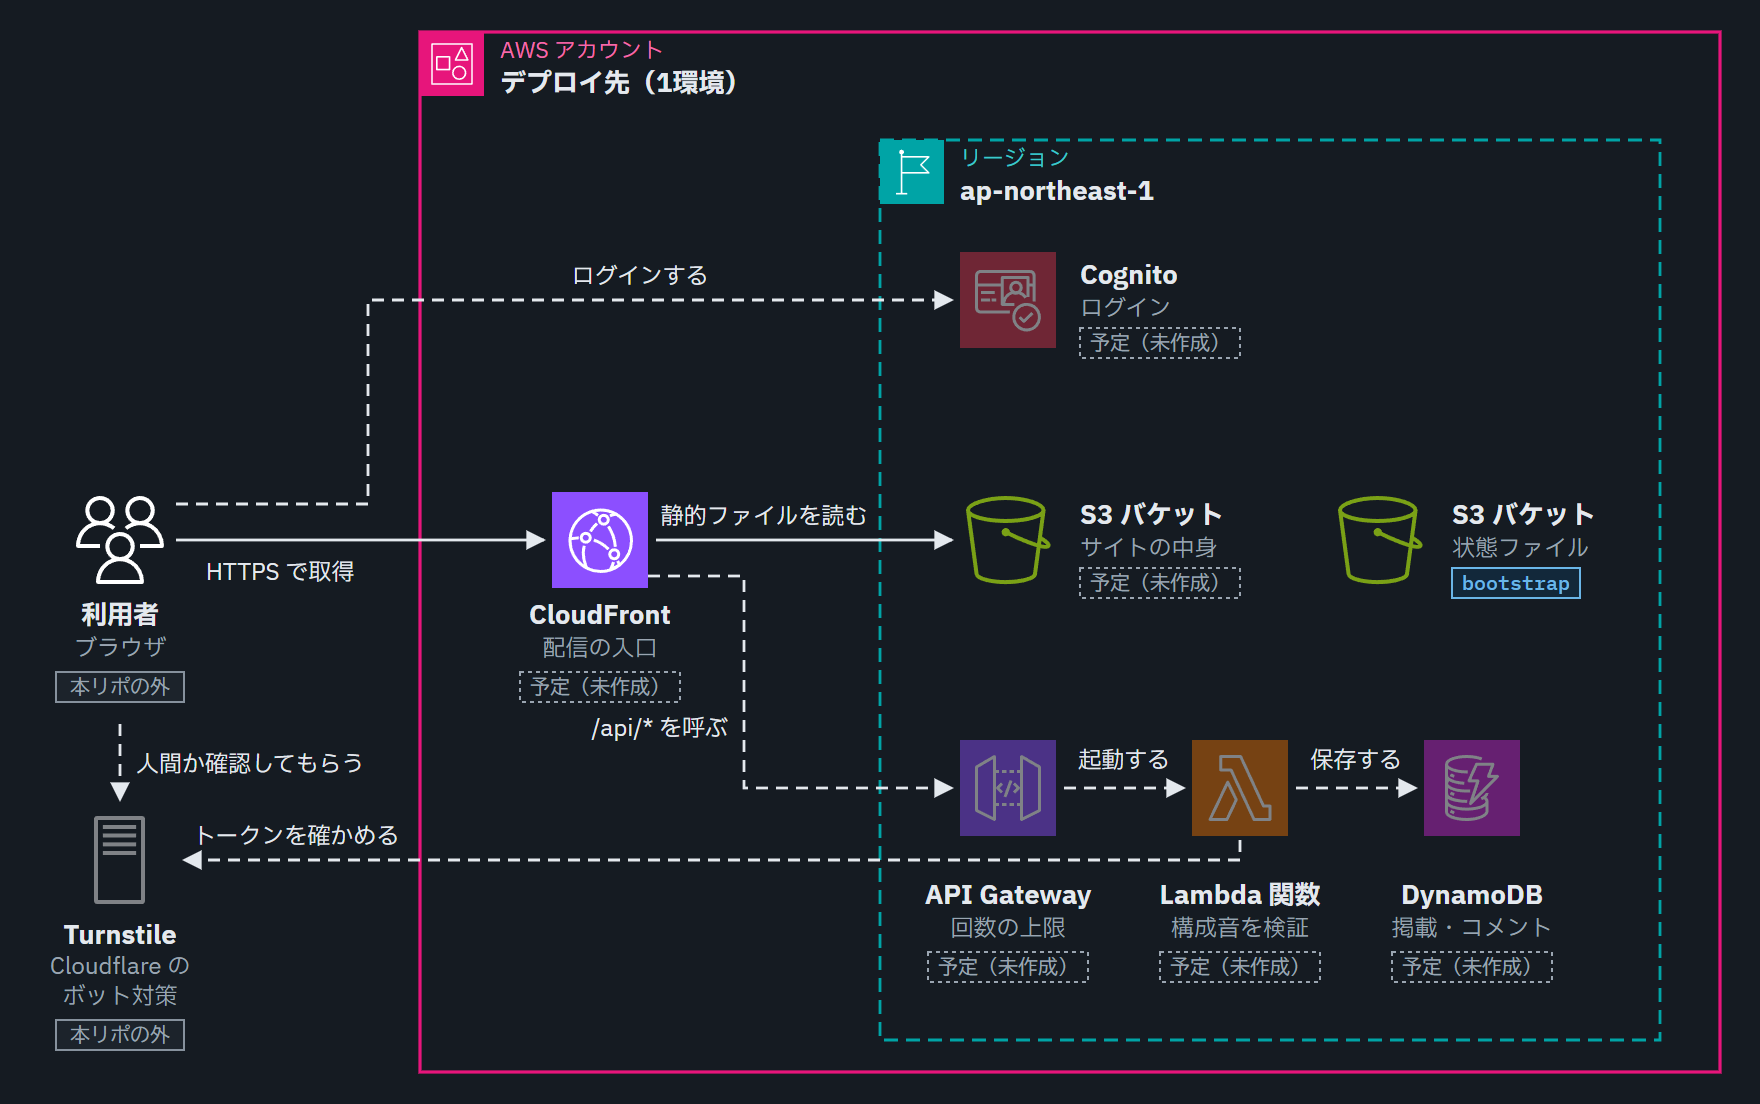
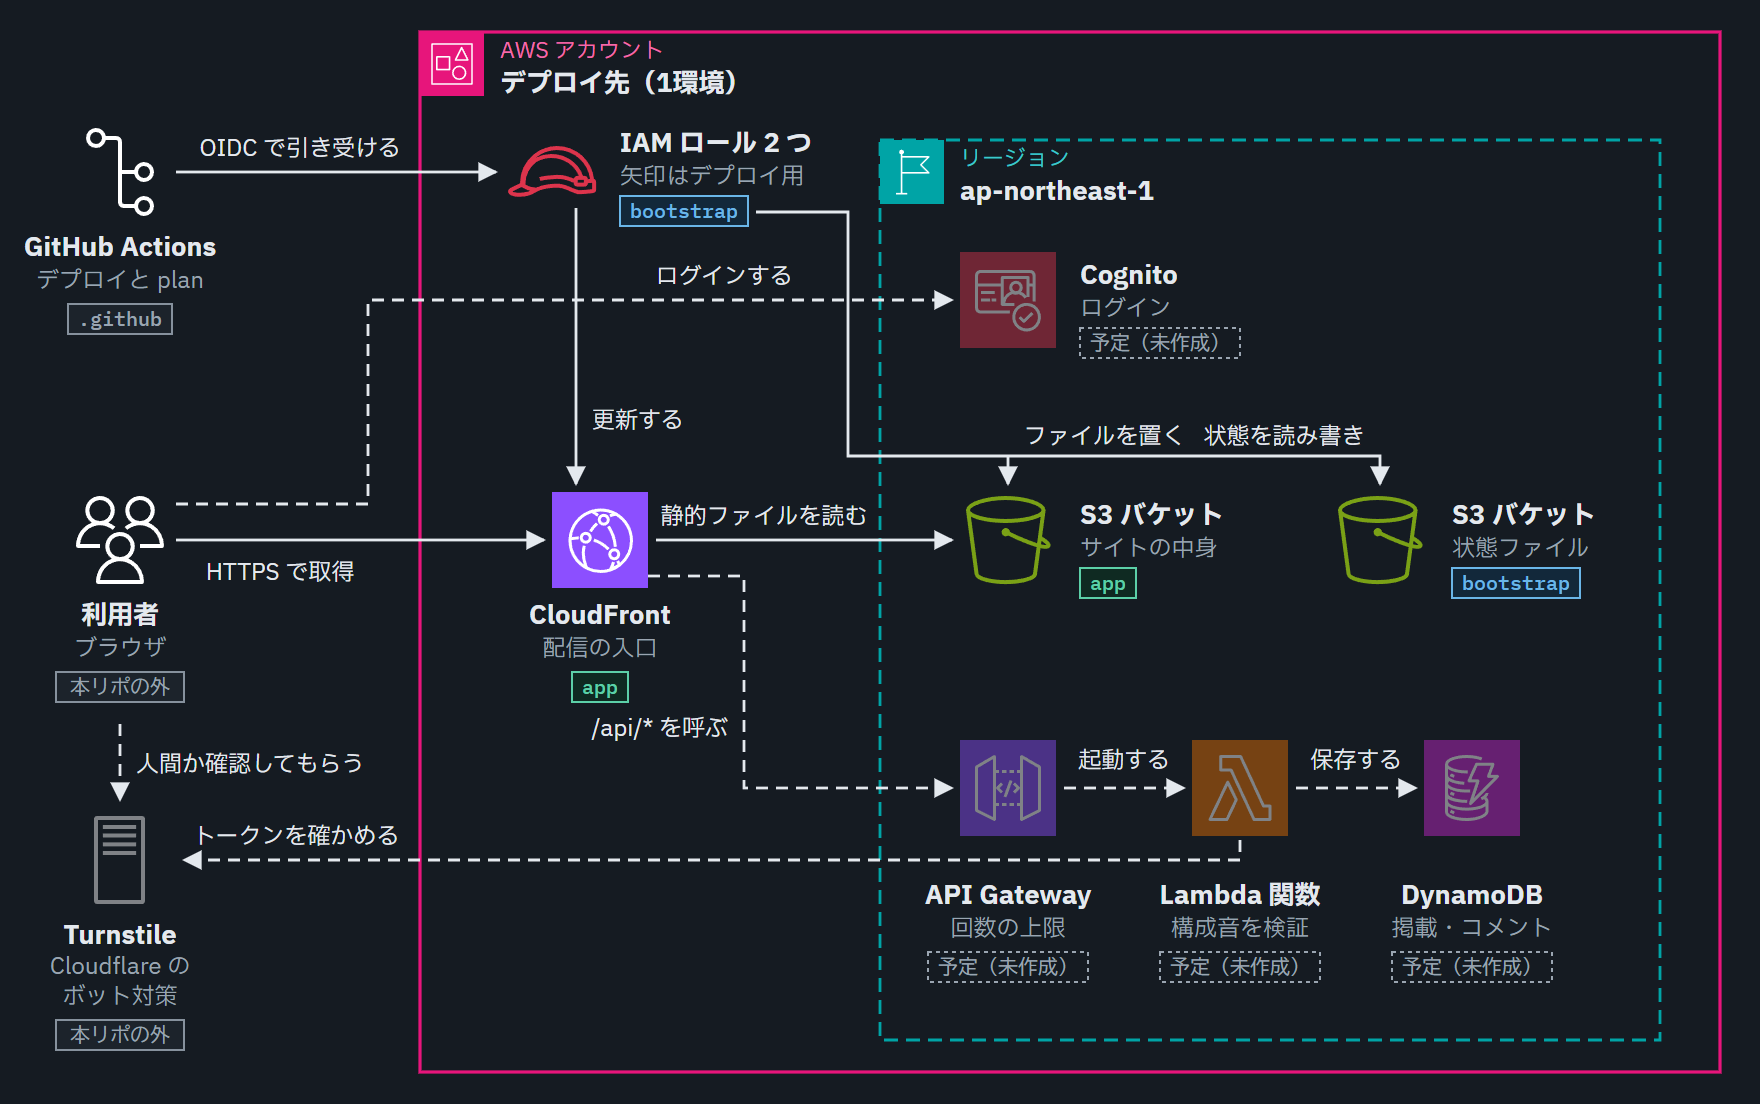
fix: OIDC の信頼条件を GitHub の実際の sub に合わせ、AWS への置き方を README に足す
Issue #42（M2 の最後）で #39〜#41 の部品を初めて実環境につないだ。main への push で deploy.yml が動き、CloudFront の公開 URL でサイトが使えること、PR からデプロイ用ロールを引き受けられないこと、PR 用ロールで状態ファイル本体とサイト用バケットへ書き込めないことを確かめた。

実環境で見つかった問題は、GitHub が発行する sub が所有者とリポジトリの ID を含む形で、信頼ポリシーの条件と一致しなかったこと。変数 github_repository を github_oidc_sub_prefix に改め、API の sub_claim_prefix をそのまま渡す形にした（docs/adr/0029-trust-the-actual-github-oidc-subject.md）。適用は完了している。

README に前提条件・適用の順序・独自ドメインへの切り替えを足し、構成図を実物に合わせた。infra/bootstrap/README.md には、Secrets の対応、project_name と environment を変えないこと、worktree の中で適用しないことを足した。判断の記録は docs/discovery/decisions/42.md と digest-M2.md。

diff --git a/README.md b/README.md
@@ -4,10 +4,10 @@
 
 <picture>
   <source media="(prefers-color-scheme: dark)" srcset="docs/images/architecture-dark.png">
-  <img src="docs/images/architecture-light.png" alt="構成図。利用者のブラウザは CloudFront から S3 の静的ファイルを取得する（モード 1・2）。モード 3 では、Cognito でログインし、API Gateway と Lambda を通して DynamoDB に掲載とコメントを保存する。人間かどうかの確認は Turnstile に任せる。">
+  <img src="docs/images/architecture-light.png" alt="構成図。利用者のブラウザは CloudFront から S3 の静的ファイルを取得する（モード 1・2）。GitHub Actions は OIDC で IAM ロールを引き受ける。デプロイ用のロールが CloudFront とサイト用の S3 を更新し、状態ファイルを読み書きする。モード 3 では、Cognito でログインし、API Gateway と Lambda を通して DynamoDB に掲載とコメントを保存する（予定）。人間かどうかの確認は Turnstile に任せる（予定）。">
 </picture>
 
-2026-11-03 時点の予定の構成図（アイコンは [AWS Architecture Icons](https://aws.amazon.com/architecture/icons/)）。`bootstrap` のバッジはコードがあるもの、ほかは未作成で、実装が進むと食い違う。
+2026-11-07 時点の構成図で、モード 3 の部品は予定（アイコンは [AWS Architecture Icons](https://aws.amazon.com/architecture/icons/)）。`bootstrap`・`app` のバッジは作成済みのもので、実装が進むと食い違う。矢印の更新を行うのはデプロイ用のロールで、PR 用のロールは読み取りとロックだけ。
 
 次の 3 つのモードを、番号順に作る（[docs/adr/0006](docs/adr/0006-product-scope-and-stages.md)）。
 
@@ -15,7 +15,7 @@
 2. 出力を、各コードの押さえ方の候補から選び直して微調整する。
 3. 出力を恒久的に掲載し、コメントを残せる（書き込みはログイン必須）。
 
-状態: モード 1 が手元で動く（配信はまだ。AWS のコードは `infra/bootstrap` の Terraform のみ）。
+状態: モード 1 を AWS で配信している。main へのマージで自動的にデプロイされる。
 
 手元で動かす（Node.js 24 系と pnpm が要る。版は `package.json` の `packageManager`）:
 
@@ -26,9 +26,27 @@ pnpm --filter web dev
 
 表示された URL（通常は http://localhost:5173/ ）をブラウザで開く。静的ファイルにするには `pnpm --filter web build`（`apps/web/dist` にできる）。画面は [docs/adr/0019](docs/adr/0019-web-screen-with-vite-and-react.md)。
 
-## 構成（予定）
+## 構成
 
-モード 1・2 は静的サイトで、コード理論と最適化はブラウザの中で動かす。上の図の理由は [docs/adr/](docs/adr/)（実装は TypeScript で [ADR 0007](docs/adr/0007-typescript-shared-core.md)、IaC は Terraform で [infra/](infra/README.md)、Organizations に依存しない [ADR 0003](docs/adr/0003-account-agnostic.md)）。
+モード 1・2 は静的サイトで、コード理論と最適化はブラウザの中で動かす。上の図の理由は [docs/adr/](docs/adr/)（実装は TypeScript で [ADR 0007](docs/adr/0007-typescript-shared-core.md)、IaC は Terraform で [infra/](infra/README.md)、Organizations に依存しない [ADR 0003](docs/adr/0003-account-agnostic.md)、配信は [ADR 0023](docs/adr/0023-static-site-delivery-with-cloudfront-and-s3.md)、CI/CD は [ADR 0027](docs/adr/0027-ci-cd-with-three-workflows.md)）。
+
+## 自分の AWS アカウントに置く
+
+前提条件:
+
+- Terraform と GitHub CLI（`gh`）が要る。自分のリポジトリ（fork）で行い、fork では Actions を有効にする。
+- リージョンを制限する SCP（組織で一律にかけるアクセス制限）があると、`us-east-1` が拒否されることがある。独自ドメインの証明書を置く場所で、SCP の作り方によっては CloudFront や IAM の操作も止まる。
+- 新しいアカウントでは、利用枠（クォータ）が低いことや、一部のサービスが使えないことがある。
+
+適用の順序:
+
+1. `infra/bootstrap` を手で適用し、GitHub Secrets を 4 つ入れる（[手順](infra/bootstrap/README.md)）。状態ファイル用のバケット、GitHub の OIDC プロバイダ、ロール 2 つができる。これ以降、main への push はデプロイになる。
+2. main に push する（押すコミットが無ければ空のコミットでよい）。`deploy.yml` が `infra/app` を適用し、サイトを置く。
+3. 公開 URL は `infra/app` の出力 `distribution_domain_name`。手元で読むには、`backend.app.hcl` を作って（[手順](infra/bootstrap/README.md)の 5）`terraform init -backend-config=backend.app.hcl` を流す。
+
+失敗した実行をやり直すときは、main の最新のコミットの実行を選ぶ。古いコミットの実行をやり直すと、サイトとインフラがその版に戻る。
+
+独自ドメインに切り替える: 手元の `infra/app/terraform.tfvars` に `domain_names` と `acm_certificate_arn`（`us-east-1` の証明書）を書いて適用し、DNS を `distribution_domain_name` へ向ける。CI への渡し方は未定で、手元で切り替えても次の自動デプロイで元に戻る。証明書と DNS は自分の環境で用意する（[ADR 0023](docs/adr/0023-static-site-delivery-with-cloudfront-and-s3.md)）。
 
 ## 開発フロー
 

diff --git a/infra/bootstrap/README.md b/infra/bootstrap/README.md
@@ -6,22 +6,29 @@
 
 - 状態ファイル用のバケット1つ。バージョニング・SSE-S3 の暗号化・パブリックアクセスの全ブロック・TLS 以外の拒否・古い版を 90 日で削除（現行の状態ファイルは消えない）・`prevent_destroy` を備える。
 - GitHub の OIDC プロバイダ（`create_github_oidc_provider` が `true` のときだけ）。
-- `<project_name>-<environment>-iam-deploy`（main 用。信頼は `repo:<github_repository>:ref:refs/heads/main` に限る）と `...-iam-plan`（PR 用の読み取り専用。信頼は `repo:<github_repository>:pull_request`。書き込めるのは状態ファイルのロック用オブジェクトだけ）。権限の範囲は [ADR 0003](../../docs/adr/0003-account-agnostic.md) とテスト（`tests/roles.tftest.hcl`）が正本。
+- `<project_name>-<environment>-iam-deploy`（main 用。信頼は `<github_oidc_sub_prefix>:ref:refs/heads/main` に限る）と `...-iam-plan`（PR 用の読み取り専用。信頼は `<github_oidc_sub_prefix>:pull_request`。書き込めるのは状態ファイルのロック用オブジェクトだけ）。権限の範囲は [ADR 0003](../../docs/adr/0003-account-agnostic.md) とテスト（`tests/roles.tftest.hcl`）が正本。
 
-変数 `github_repository`（`owner/repo`。大文字小文字は GitHub 上の表記に合わせる）は必須。OIDC プロバイダが既にあるアカウント（ランディングゾーンが作った場合など）では、`terraform.tfvars` に `create_github_oidc_provider = false` と書く（同じ URL のプロバイダは 1 アカウントに 1 つしか作れない）。すでにこのモジュールを適用した人は、`terraform.tfvars` に `github_repository` を足してから適用し直す。
+変数 `github_oidc_sub_prefix` は必須。`gh api repos/<owner>/<repo>/actions/oidc/customization/sub --jq .sub_claim_prefix` の出力をそのまま書く（形はリポジトリの設定で変わる。[ADR 0029](../../docs/adr/0029-trust-the-actual-github-oidc-subject.md)）。OIDC プロバイダが既にあるアカウント（ランディングゾーンが作った場合など）では、`terraform.tfvars` に `create_github_oidc_provider = false` と書く（同じ URL のプロバイダは 1 アカウントに 1 つしか作れない）。すでにこのモジュールを適用した人は、`terraform.tfvars` の `github_repository` を `github_oidc_sub_prefix` に書き換えてから適用し直す。
 
 バケット名は `<project_name>-<environment>-s3-state-<アカウントID>-<リージョン>-an`。アカウントIDはデプロイ先から引くので渡さない。リージョンは変数 `region` で渡し、名前にはプロバイダの値を使う（[ADR 0005](../../docs/adr/0005-resource-naming.md)）。
 
 ## 適用の手順
 
-AWS の認証情報（プロファイルなど）を設定した状態で、このフォルダで行う。
+AWS の認証情報（プロファイルなど）を設定した状態で、このフォルダで行う。git worktree の中では適用しない。worktree を消すと、gitignore 対象の `terraform.tfstate` も一緒に消える。
 
-1. `terraform.tfvars.example` を `terraform.tfvars` にコピーし、値を決める。
+1. `terraform.tfvars.example` を `terraform.tfvars` にコピーし、値を決める。`project_name` と `environment` は既定のままにする。CI は `infra/app` にこの 2 つを渡さず既定値で動くので、変えるとロールが許すバケット名とずれてデプロイが権限エラーになる。
 2. `terraform init`
 3. `terraform plan` で内容を確かめる。
 4. `terraform apply`
 5. `terraform output -raw backend_config_example` の出力を、`infra/app/` の `backend.app.hcl`（gitignore 対象）に写す。バケット名にアカウントIDが入るので、出力は貼らない。
-6. `deploy_role_arn`・`plan_role_arn`（`terraform output -raw`）は、GitHub の Secrets に入れる。ARN にアカウントIDが入るので、Variables には入れず、出力も貼らない。
+6. GitHub の Secrets に次の 4 つを入れる。値にアカウントIDが入るので、Variables には入れず、出力も貼らない。`AWS_REGION` は変数 `region` と同じ値にする。入れた後は、main への push がデプロイになる。
+
+   ```
+   terraform output -raw bucket_name | gh secret set TF_STATE_BUCKET
+   terraform output -raw deploy_role_arn | gh secret set AWS_DEPLOY_ROLE_ARN
+   terraform output -raw plan_role_arn | gh secret set AWS_PLAN_ROLE_ARN
+   gh secret set AWS_REGION --body <region の値>
+   ```
 
 `apply` はアカウントに実際にバケットとロールを作るので、本人が承認してから行う。
 

diff --git a/docs/adr/0029-trust-the-actual-github-oidc-subject.md b/docs/adr/0029-trust-the-actual-github-oidc-subject.md
@@ -1,0 +1,29 @@
+# 0029. OIDC の信頼条件は、GitHub が実際に発行する sub の接頭辞を API から取って渡す
+
+- **Status**: Active
+- **Date**: 2026-11-07
+
+## Context
+
+デプロイ用と PR 用のロールは、信頼の条件をリポジトリと ref に限っている（[0003](0003-account-agnostic.md)）。当初は条件を `repo:<owner>/<repo>:...` の形で組み立てていた。実環境で初めて流すと、引き受けが拒否された。GitHub がこのリポジトリに発行する sub（OIDC トークンの主体）は、所有者とリポジトリの数値 ID を含む不変の形（`repo:<owner>@<ID>/<repo>@<ID>:...`）だった。形はリポジトリの設定で決まる。テストはモックで動くので、この食い違いを見つけられない。
+
+## Decision
+
+- 変数 `github_oidc_sub_prefix` に、`gh api repos/<owner>/<repo>/actions/oidc/customization/sub` の `sub_claim_prefix` の値をそのまま渡す。変数 `github_repository` はやめる。
+- 信頼の条件は `<接頭辞>:ref:refs/heads/main` と `<接頭辞>:pull_request` を `StringEquals` の完全一致にする。
+- 変数の検証は、不変の形と従来の形（`repo:<owner>/<repo>`）を通し、片方だけに ID がある値や sub 全体を止める。
+
+## Consequences
+
+- 同じ名前のリポジトリを別の人が作っても ID が違うので、不変の形の条件には一致しない。
+- 接頭辞には名前も入っているので、所有者やリポジトリの名前を変えたら、API の値を取り直して、変わっていれば `bootstrap` を適用し直す。適用するまで引き受けは拒否される（安全な側に失敗する）。
+- リポジトリの設定（`use_immutable_subject`）で形が変わったときも同じ。変数の検証は形を確かめるだけで、値が今の設定と合っているかは実際に流すまで分からない。
+- sub をカスタマイズしたリポジトリ（API の `use_default` が `false`）は対象にしない。後ろの部分（`:ref:refs/heads/main` など）を固定で足しているので、一致しない場合がある。
+- 従来の形のリポジトリでも、API の値を写すだけで同じコードを使える（[0003](0003-account-agnostic.md) の、誰でも試せる形を保つ）。従来の形での引き受けは、実地では確かめていない。
+
+## Why not
+
+- **リポジトリの設定を従来の形に戻す**: 同じ名前で作り直されたリポジトリと区別できなくなる。設定の変更も増える。
+- **両方の形を信頼の条件に並べる**: 使わない形の入口まで開ける。
+- **`StringLike` のワイルドカードで両方に一致させる**: 条件が広がり、意図しないリポジトリや ref に一致する余地ができる。
+- **Terraform の GitHub プロバイダで接頭辞を引く**: `bootstrap` に、GitHub の認証とプロバイダが要るようになる。値は初回に写すだけで足りる。

diff --git a/docs/discovery/decisions/42.md b/docs/discovery/decisions/42.md
@@ -1,0 +1,7 @@
+| 日付 | Issue | 決めたこと | 根拠 / 代替案 |
+| --- | --- | --- | --- |
+| 2026-11-07 | #42 | `bootstrap` は worktree ではなく main 側のチェックアウトで適用し、worktree のコードを当てるときは `-state` で main 側の状態ファイルを指した。`infra/bootstrap/README.md` に「worktree の中では適用しない」を足した | 状態ファイルは gitignore 対象で、worktree の回収で一緒に消える。代替: worktree に置き、後で移す |
+| 2026-11-07 | #42 | 構成図に GitHub Actions と IAM ロールを足し、図の問いを「利用者とデプロイが、どの部品を通って、どこに届くか」に広げた | README に置ける図は 1 組だけ（ADR 0009）で、デプロイの入口も全体像に入れたい。代替: 図を増やす、デプロイの経路を描かない |
+| 2026-11-07 | #42 | README に「失敗した実行をやり直すときは main の最新のコミットを選ぶ」を足した | 古いコミットの実行をやり直すと、サイトがその版に戻る（この Issue で実際に起きた）。代替: 書かずに、`deploy.yml` で最新でないコミットを止める（作業が増えるので、必要なら別の Issue にする） |
+| 2026-11-07 | #42 | 確かめ用の一時ワークフローの、デプロイ用ロールの引き受けを `retry-max-attempts: 1` にした | 既定の 12 回だと、拒否が確定するまで 3 分以上かかる。一時ワークフローなので main には残らない |
+| 2026-11-07 | #42 | 構成図は `aws-architecture-diagram` の手順のうち Artifact への公開を省き、README の画像だけを更新した | Issue の成果物は README の図で、PR の差分で見られる。代替: 対応表つきのページも公開する |

diff --git a/docs/discovery/decisions/digest-M2.md b/docs/discovery/decisions/digest-M2.md
@@ -1,0 +1,6 @@
+=== M2 モード1をAWSで公開する 到達ダイジェスト ===
+
+- 達成状態: main へのマージで自動的にデプロイされ、CloudFront の公開 URL から M1 のサイトが使える（#39・#40・#41・#42）。PR の plan が動き、PR からはデプロイ用ロールを引き受けられず、PR 用ロールでは状態ファイル本体とサイト用バケットへ書き込めないことを実環境で確かめた。
+- 判断の置き場所: 重い判断は ADR 0023・0027・0029、軽微な判断は `decisions/` の #39〜#42 の各ファイル。
+- 履歴の再照合（`scan-history`）: 指摘あり。内容は本人が確かめ、既存の履歴は書き換えないと決めた。作者名の分は増えないように本人が止めた。
+- 後回しにしたこと: 費用のアラートは後で足す（本人の判断。Issue は未起票）。
